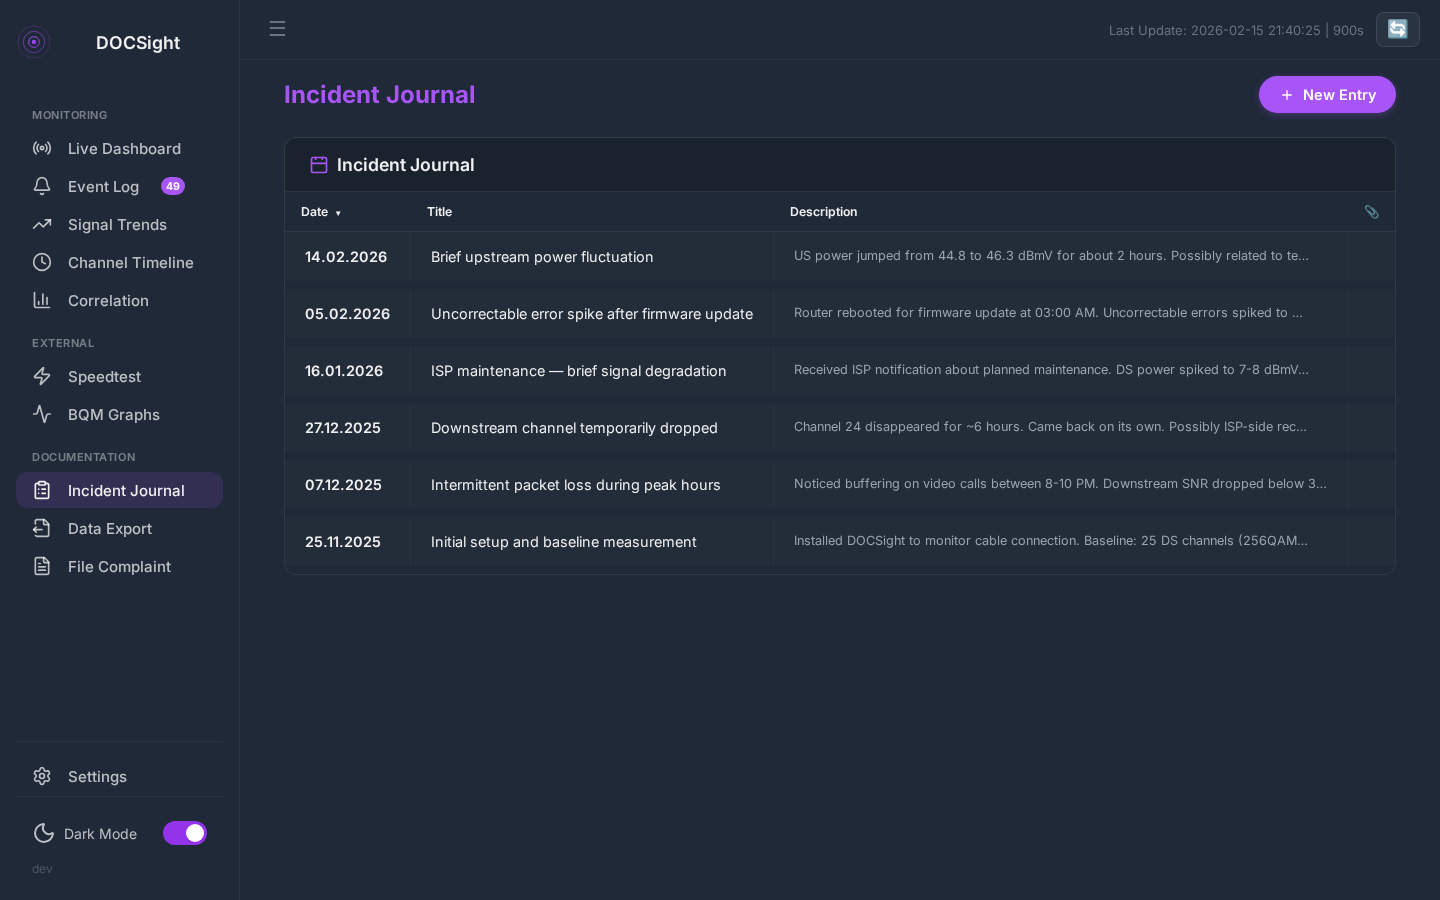
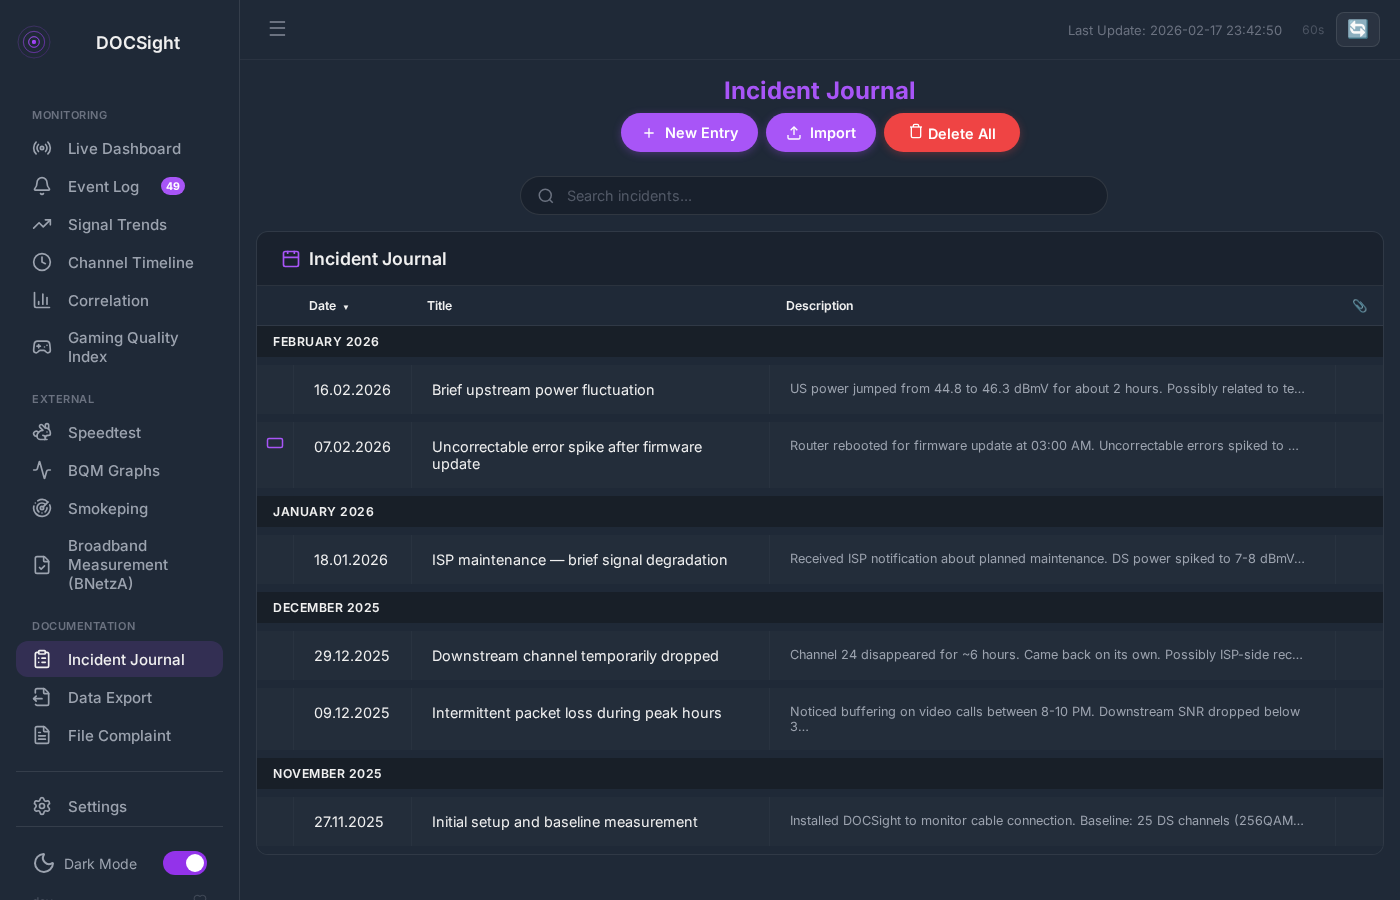
docs: update README and screenshots for incident journal features
Add import modal and icon picker screenshots. Update feature table,
roadmap, and screenshot gallery with new journal capabilities.

diff --git a/README.md b/README.md
@@ -92,7 +92,7 @@ Open `http://localhost:8765` — no setup required.
 | **[Gaming Quality Index](https://github.com/itsDNNS/docsight/wiki/Features-Gaming-Quality)** | **NEW:** A-F grade for gaming readiness based on latency, jitter, and signal health |
 | **[Event Log](https://github.com/itsDNNS/docsight/wiki/Features-Event-Log)** | Automatic anomaly detection with modulation watchdog |
 | **[Speedtest Integration](https://github.com/itsDNNS/docsight/wiki/Features-Speedtest)** | Speed test history from [Speedtest Tracker](https://github.com/alexjustesen/speedtest-tracker) |
-| **[Incident Journal](https://github.com/itsDNNS/docsight/wiki/Features-Incident-Journal)** | Document ISP issues with attachments |
+| **[Incident Journal](https://github.com/itsDNNS/docsight/wiki/Features-Incident-Journal)** | Document ISP issues with icons, Excel/CSV import, search, and attachments |
 | **[Complaint Generator](https://github.com/itsDNNS/docsight/wiki/Filing-a-Complaint)** | Editable ISP letter + downloadable technical PDF |
 | **[Channel Timeline](https://github.com/itsDNNS/docsight/wiki/Features-Channel-Timeline)** | Per-channel power, SNR, error, and modulation history over time |
 | **[Home Assistant](https://github.com/itsDNNS/docsight/wiki/Home-Assistant)** | MQTT Auto-Discovery with per-channel sensors |
@@ -122,11 +122,15 @@ Open `http://localhost:8765` — no setup required.
 |---|---|
 | ![Speedtest](docs/screenshots/speedtest.png) | ![Journal](docs/screenshots/journal.png) |
 
+| Import (Excel/CSV) | Edit with Icon Picker |
+|---|---|
+| ![Import](docs/screenshots/import-modal.png) | ![Edit](docs/screenshots/incident-edit.png) |
+
 | Channel Timeline | Event Log |
 |---|---|
 | ![Channel Timeline](docs/screenshots/channel-timeline.png) | ![Events](docs/screenshots/events.png) |
 
-| Correlation Analysis (NEW) | Settings |
+| Correlation Analysis | Settings |
 |---|---|
 | ![Correlation](docs/screenshots/correlation.png) | ![Settings](docs/screenshots/settings.png) |
 
@@ -233,6 +237,7 @@ See [CONTRIBUTING.md](CONTRIBUTING.md). **Please open an issue before working on
 | Modulation Watchdog & Power Drift | ✅ Released | [#21](https://github.com/itsDNNS/docsight/issues/21) |
 | Demo/Test Mode | ✅ Released | [#30](https://github.com/itsDNNS/docsight/issues/30) |
 | Smokeping Integration | ✅ Released | [#22](https://github.com/itsDNNS/docsight/issues/22) |
+| Incident Import, Icons & Search | ✅ Released | [#58](https://github.com/itsDNNS/docsight/issues/58) |
 | Vodafone Station Support | ✅ Released | [#14](https://github.com/itsDNNS/docsight/issues/14) |
 | Technicolor TC4400 Support | ✅ Released | [#24](https://github.com/itsDNNS/docsight/issues/24) |
 | Vodafone Ultra Hub 7 Support | ✅ Released | [#29](https://github.com/itsDNNS/docsight/issues/29) |
